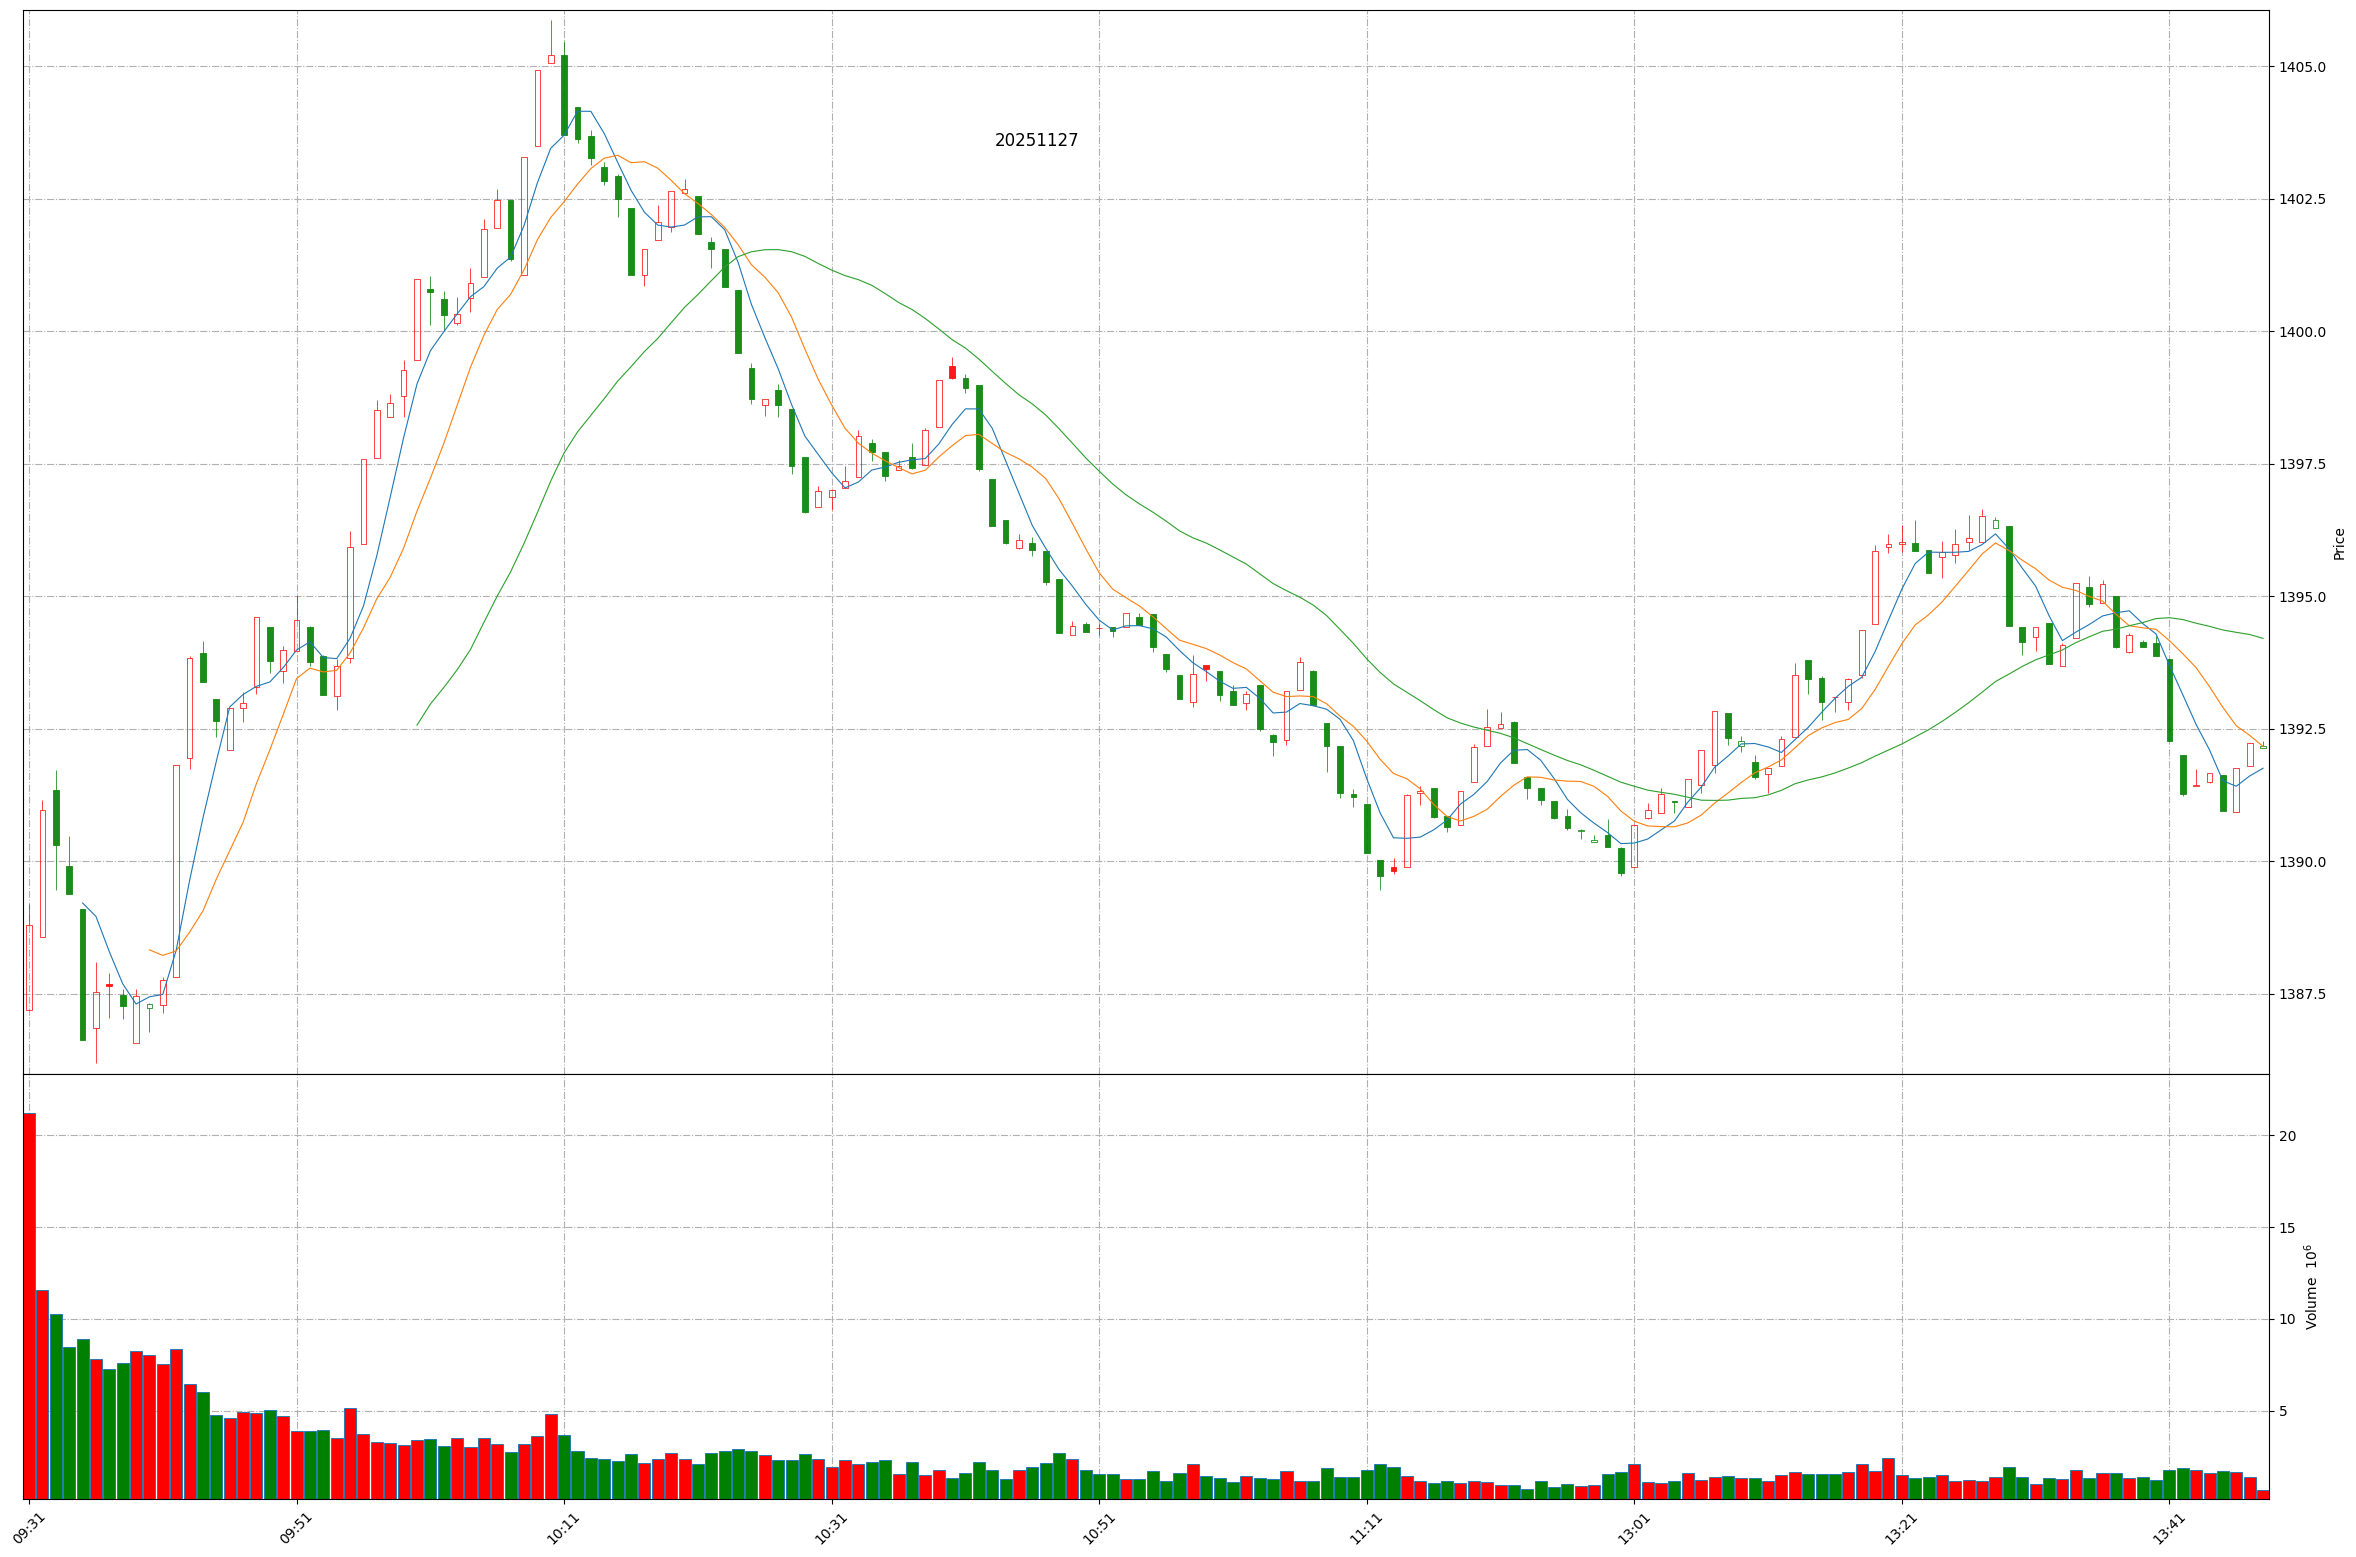
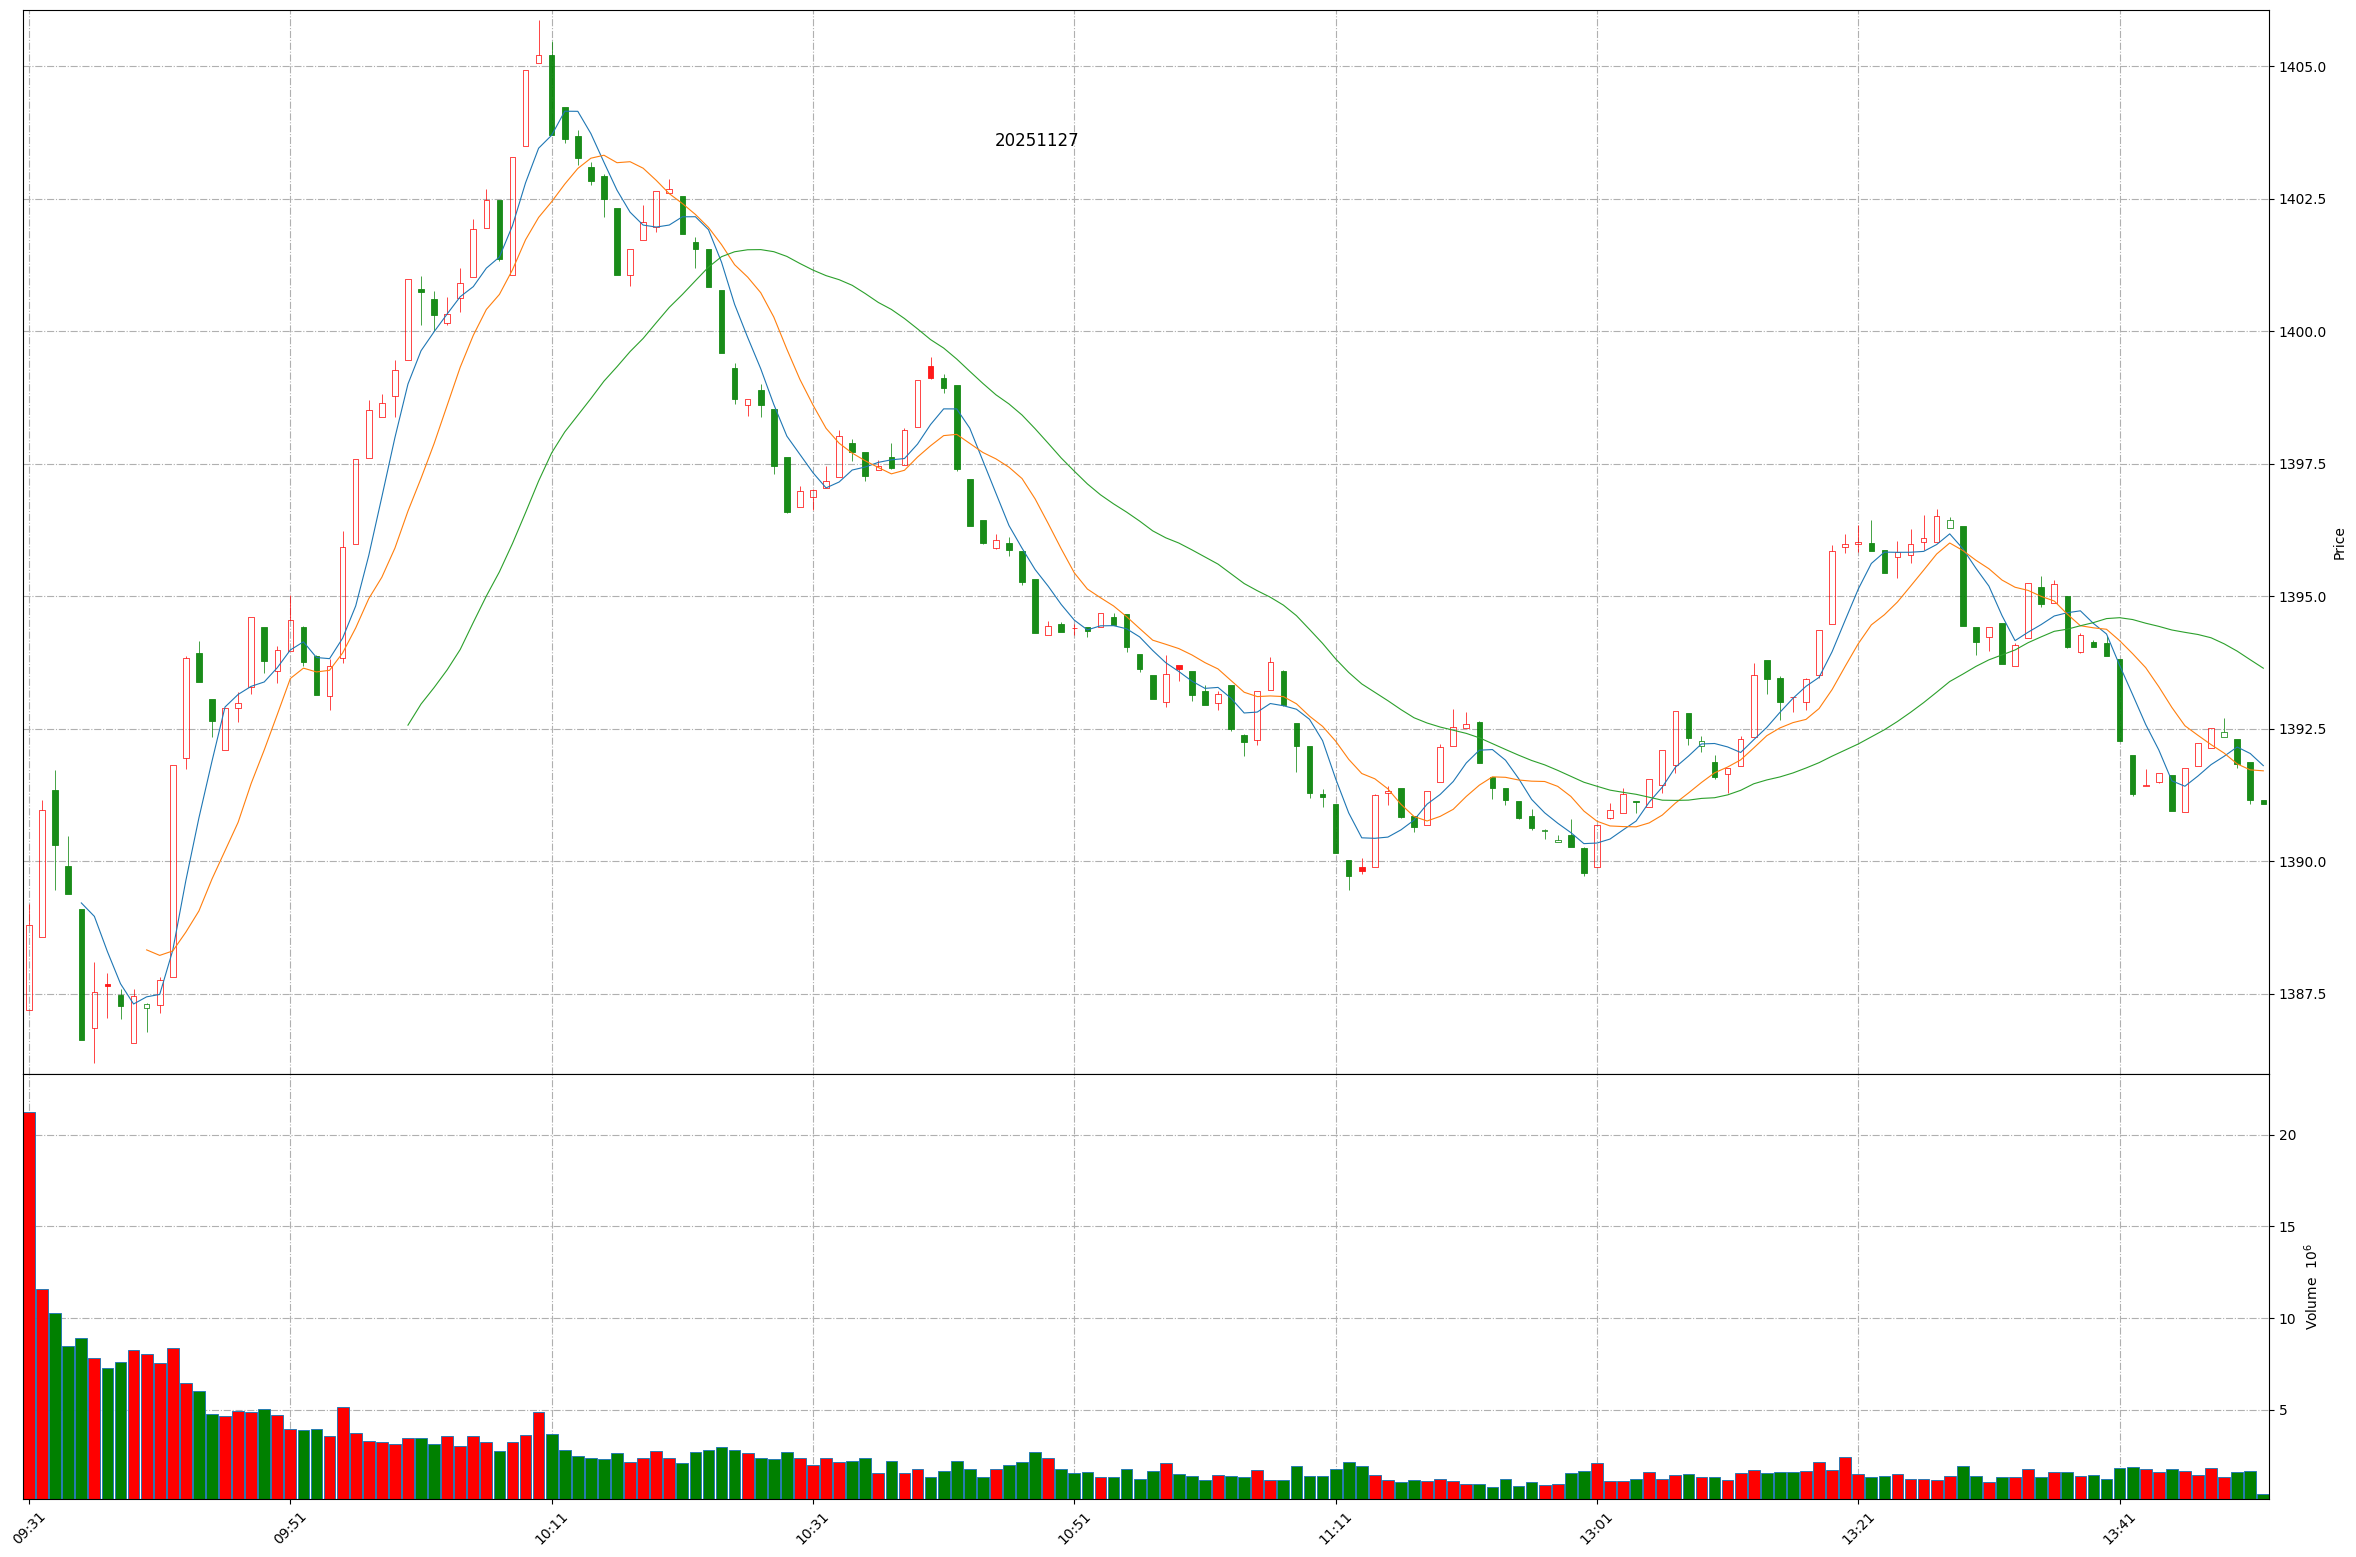
Github action update at 2025-11-27 13:51:40.

diff --git a/README.md b/README.md
@@ -1,11 +1,11 @@
 
 # Daily-A-share-market-quotes 每日 A 股指数（5min 更新）- 20251127
 
-### 上证指数 20251127 13:47
+### 上证指数 20251127 13:51
 ![](./fig/2025/11/20251127-sh000001.png)
 
-### 深证成指 20251127 13:47
+### 深证成指 20251127 13:51
 ![](./fig/2025/11/20251127-sz399001.png)
 
-### 北证50 20251127 13:47
+### 北证50 20251127 13:51
 ![](./fig/2025/11/20251127-bj899050.png)
